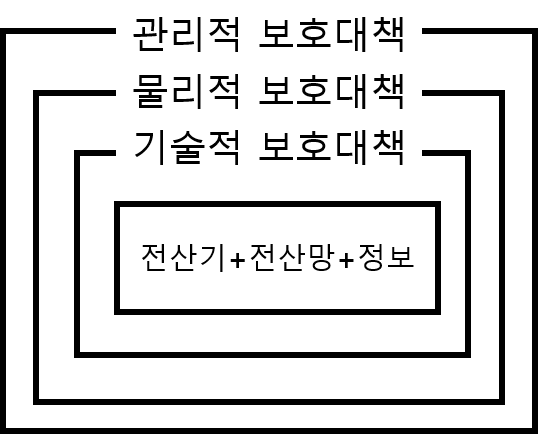
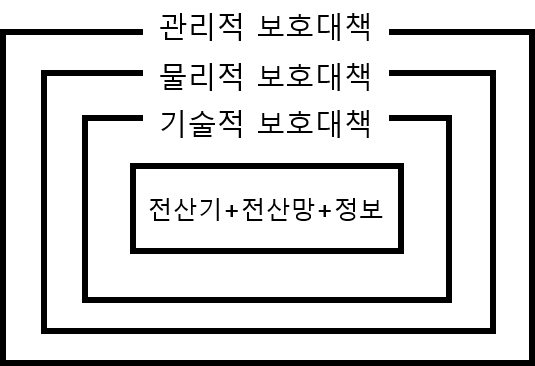
modify post

Changed region(s): [[0.0598, 0.1503, 0.957, 0.9317], [0.4785, 0.0301, 1.0, 0.1202], [0.0, 0.0301, 0.4486, 0.1202]]

diff --git a/_posts/2020-05-05-jungbogi-w-sec01.md b/_posts/2020-05-05-jungbogi-w-sec01.md
@@ -1,7 +1,7 @@
 ---
 layout: post
 title:  "[정보보안기사/필기]01.정보보호관리의 개념"
-date:   2020-02-17 23:57:00 0800
+date:   2020-05-06 00:11:00 0800
 categories: 정보보안기사필기
 tags: 정보보안 보안관리법규
 ---
@@ -25,24 +25,125 @@ tags: 정보보안 보안관리법규
    
 ##### 4. 정보보호 목표
 1. <k>기밀성(confidentiality)</k>
-    - **기밀성 : 오직 인가된 사람, 프로세스, 시스템만이 알 필요성에 근거해 시스템에 접근해야함**
+    - **: 오직 인가된 사람, 프로세스, 시스템만이 알 필요성에 근거해 시스템에 접근해야함**
     - 데이터의 비밀 엄수(secrecy)
     - 보안 기술 : 접근제어, 암호화 등
     - <r>전송중인 메시지가 공격자에게 노출되는 것에 대응 = 기밀성에 대한 설명</r>
 2. <k>무결성 (Integrity)</k>
-    - **무결성 : 정보의 내용이 불법적으로 생성, 변경, 삭제되지 않도록 보호해야함**
+    - **: 정보의 내용이 불법적으로 생성, 변경, 삭제되지 않도록 보호해야함**
     - 전력차단과 같은 악의 없는 행위가 원인이 될 수도 있음
     - 보장 기술 : 접근제어, 메시지 인증 등
     - 변경 탐지해 복구하는 기술 : 침입 탐지, 백업 등
 3. <k>가용성 (Availability)</k>
-    - **가용성 : 시스템이 지체 없이 동작하도록 하고, 합법적 사용자가 서비스 사용을 거절당하지 않도록 하는 것**
+    - **: 시스템이 지체 없이 동작하도록 하고, 합법적 사용자가 서비스 사용을 거절당하지 않도록 하는 것**
 4. <k>인증성 (인증, Authentication)</k>
-    - **인증성 : 사용자가 정말 그 사용자인지와 시스템에 도착한 자료가 정말 신뢰할 수 있는 출처에서 온 것인지 확인**
+    - **: 사용자가 정말 그 사용자인지와 시스템에 도착한 자료가 정말 신뢰할 수 있는 출처에서 온 것인지 확인**
 5. <k>책임추정성(책임성, Accountability)</k>
-    - **책임추정성 : 개체의 행동을 유일하게 추적해서 찾아낼 수 있어야 함**
+    - **: 개체의 행동을 유일하게 추적해서 찾아낼 수 있어야 함**
+<table>
+<thead><tr><th id="one">구분</th><th id="two">위협요소</th><th id="third">피해</th><th>대책</th></tr></thead>
+<tbody>
+<tr><td>기밀성</td><td>도청, 사회공학</td><td>기밀데이터 유출</td><td>데이터암호화, 접근제어</td></tr>
+<tr><td>무결성</td><td>데이터수정, 논리폭탄, 백도어바이러스</td><td>데이터유실</td><td>해시함수, MAC, 전자서명,물리적통제, 침입탐지, 접근제어</td></tr>
+<tr><td>부인방지</td><td>송수신 부인</td><td>송수신, 출처확인 곤란</td><td>전자서명</td></tr>
+<tr><td>인증</td><td>합법적사용자로 위장</td><td>사용자의 오인</td><td>MAC, 전자서명, PKI</td></tr>
+</tbody>
+</table>
 
 ##### 5. 정보보호 대책
-![정보보호 대책](https://dev-ujin.github.io/assets/res/information_protection_measures.png)
+![정보보호 대책](https://dev-ujin.github.io/assets/res/information_protection_measures.png){: .img01}
+1. <k>관리적 보호대책</k>
+   - 법, 제도, 규정, 교육, 위험분석 및 보안감사
+2. <k>물리적 보호대책</k>
+   - 자연재해 대책, 출입통제, 시건(잠금)장치
+3. <k>기술적 보호대책</k>
+   - 접근통제, 암호 기술, 백업체제
+
+#### 2. OSI 보안구조
+##### 1. OSI 보안구조 핵심
+1. 보안공격 : **정보의 안전성을 침해**하는 제반 행위
+2. 보안 메커니즘 : **보안 공격을 탐지, 예방**하거나 공격으로 인한 **침해를 복구하는 절차**
+3. 보안 서비스 : **보안을 강화하기 위한 처리 또는 통신 서비스**
+
+##### 2. 보안 공격
+1. 기밀성을 위협하는 공격
+   1. <k>스누핑(Snooping)</k>
+      - **: 데이터에 대한 비인가 접근 또는 탈취(가로채어 외부로 노출)**
+   2. <k>트래픽분석(Traffic Analysis)</k>
+      - **: 온라인 트래픽 분석을 통해 다른 형태의 정보를 얻음**
+2. 무결성을 위협하는 공격
+   1. <k>변경(Modification)</k>
+   2. <k>가장(Masquerading)</k>
+      - **: 한 개체가 다른 개체의 행세를 하는 것**
+   3. <k>재연(재전송, Replaying)</k>
+      - **: 데이터를 보관하고 있다가 시간이 경과한 후에 재전송하여 인가되지 않은 사항에 접근하는 효과를 노리는 행위**
+   4. <k>부인(Repudiation)</k> 
+      - **: 송신자는 메시지를 보냈다는 것을, 수신자는 받았다는 것을 부인**
+      - 부인방지(부인봉쇄, Nonrepudiation)
+3. 가용성을 위협하는 공격
+   - <k>서비스 거부(Denial of Service)</k>
+4. 소극적 공격과 적극적 공격
+   1. <k>소극적 공격</k> 
+      - : 시스템 자원에는 영향을 끼치지 않고, **단지 정보를 획득**하는 것
+      - 탐지보다 **예방**에 더 신경써야 함
+   2. <k>적극적 공격</k> 
+      - : **시스템 자원을 변경**하거나 **작동에 영향**을 미치는 공격
+      - 방어보다 **탐지**가 더 쉬움(공격자가 다양한 방법을 이용하기 때문)  
+
+#### 3. 보안용어
+1. <k>자산(Asset)</k>
+   - : **데이터** 혹은 데이터 소유자가 **가치를 부여한 실체**
+2. <k>취약점(Vulnerability)</k>
+   - : 공격자에게 열린 문을 제공할 수 있는 **SW, HW, 절차, 인력 상의 약점**
+   - : **위협의 이용대상**으로 **관리, 물리, 기술적 약점**
+3. <k>위협(Threat)</k>
+    - : **손실이나 손상의 원인**이 될 가능성을 제공하는 환경의 집합
+
+    1. <k>가로채기(Interception)</k>
+        - : 비인가된 당사자의 자산으로의 접근을 획득
+        - **기밀성에 영향**을 줌
+    2. <k>가로막음(Interruption)</k>
+        - : 시스템 자원이 사용 불가능하게 됨
+        - **가용성에 영향**을 줌
+    3. <k>변조(Modification)</k>
+        - : 비인가된 사용자가 접근하여 그 내용을 변경
+        - **무결성에 영향**을 줌
+    4. <k>위조(Fabrication)</k>
+        - : 비인가된 당사자가 가짜 정보를 생성
+        - **무결성에 영향**을 줌
+4. <k>위협주체(위협원, Threat agents)</k>
+   - : **취약점을 이용하는 존재**
+5. <k>위험(Risk)</k>
+   - : 위협주체가 취약점을 활용할 수 있는 가능성과 자산에 악영향을 미치는 결과
+   - **위험 = 자산 * 위협 * 취약점**
+6. <k>노출(Exposure)</k>
+   - : 위협 주체로 인해서 **손실이 발생할 수 있는 경우**
+7. <k>대책/안전장치</k>
+   - : **취약점을 제거**하거나, 위협 주체가 취약점을 이용할 수 있는 가능성을 **감소시키기 위한 SW설정, HW장비, 절차**
+8. <k>다계층보안/심층 방어(Multi Layered Security/Defense in Depth)</k>
+   - : 여러 계층의 보안대책이나 대응수단을 구성하는 것
+   - **한 가지 통제가 대응에 실패하더라도 전체 시스템을 위험에 빠뜨리지 않음**
+   - **가장 최선의 보안 방법**
+   - 보호, 탐지, 대응으로 이루어진 보안 접근법
+9. <k>직무상의 신의성실, 노력(Due Care, Due Diligence)</k>
+   - Due : 특정 목적을 위하여 필요하거나 요구되는 적절하고 충분한 의무
+   - Due Care : 특정 목적을 위하여 필요하거나 요구되는 적절하고 충분한 주의
+   - Due Diligence : 특정 목적을 위하여 필요하거나 요구되는 적절하고 충분한 노력
+10. <k>사회공학(Social Engineering)</k>
+   - : **인간 상호의 깊은 신뢰**를 바탕으로 **사람들을 속**여 **정상적인 보안 절차를 깨뜨리기 위한 침입 수단**
+11. <k>시점별 통제(Control)</k>
+    1. <k>예방통제(Preventive Control)</k>
+      - : 사전에 위협과 취약점을 대처하는 통제
+    2. <k>탐지통제(Detective Control)</k>
+      - :  위협을 탐지하는 통제
+    3. <k>교정통제(Corrective Control)</k> 
+      - : 이미 탐지된 위협이나 취약점에 대처하거나, 감소시키는 통제
+
+- <bl>"보안은 불공정한 게임이다"</bl> 
+  - : 방어측은 모든 취약점을 다 알아야 하지만, 공격측은 하나만 알아도 됨
+- <bl>가장 약한 링크 원칙(Principle of Weakness Link)</bl>
+  - : 보안은 가장 약한 링크보다 더 강할 수 없음
+  - 어떤 하나의 제어수단의 실패가 전체 보안실패를 야기한다는 것을 의미
 
 <style>
 k {
@@ -57,4 +158,8 @@ r {
     background-color: #d33a4eb0;
     border-radius: 3px;
 }
+.img01 {width:40%;height:40%}
+#one {width: 20%}
+#two {width: 25%}
+#third {width: 15%}
 </style>
